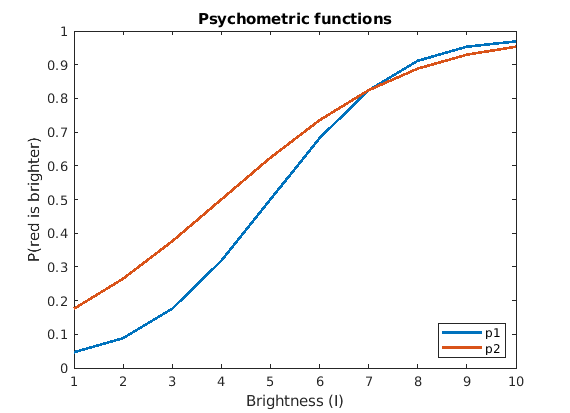
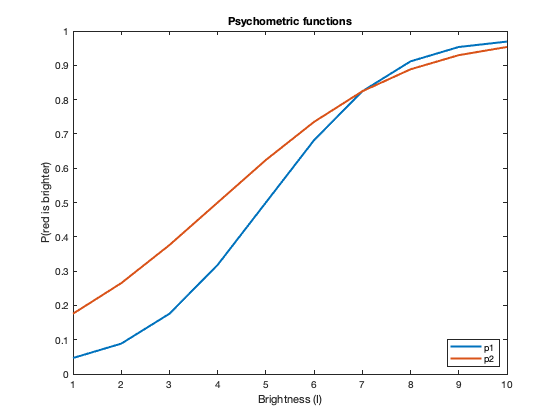
hw5
Minor changes

diff --git a/hw5_DAKE/html/Q3.html b/hw5_DAKE/html/Q3.html
@@ -6,8 +6,8 @@
    <!--
 This HTML was auto-generated from MATLAB code.
 To make changes, update the MATLAB code and republish this document.
-      --><title>Q3</title><meta name="generator" content="MATLAB 9.9"><link rel="schema.DC" href="http://purl.org/dc/elements/1.1/"><meta name="DC.date" content="2021-11-16"><meta name="DC.source" content="Q3.m"><style type="text/css">
-html,body,div,span,applet,object,iframe,h1,h2,h3,h4,h5,h6,p,blockquote,pre,a,abbr,acronym,address,big,cite,code,del,dfn,em,font,img,ins,kbd,q,s,samp,small,strike,strong,tt,var,b,u,i,center,dl,dt,dd,ol,ul,li,fieldset,form,label,legend,table,caption,tbody,tfoot,thead,tr,th,td{margin:0;padding:0;border:0;outline:0;font-size:100%;vertical-align:baseline;background:transparent}body{line-height:1}ol,ul{list-style:none}blockquote,q{quotes:none}blockquote:before,blockquote:after,q:before,q:after{content:'';content:none}:focus{outine:0}ins{text-decoration:none}del{text-decoration:line-through}table{border-collapse:collapse;border-spacing:0}
+      --><title>Q3</title><meta name="generator" content="MATLAB 9.6"><link rel="schema.DC" href="http://purl.org/dc/elements/1.1/"><meta name="DC.date" content="2021-11-19"><meta name="DC.source" content="Q3.m"><style type="text/css">
+html,body,div,span,applet,object,iframe,h1,h2,h3,h4,h5,h6,p,blockquote,pre,a,abbr,acronym,address,big,cite,code,del,dfn,em,font,img,ins,kbd,q,s,samp,small,strike,strong,sub,sup,tt,var,b,u,i,center,dl,dt,dd,ol,ul,li,fieldset,form,label,legend,table,caption,tbody,tfoot,thead,tr,th,td{margin:0;padding:0;border:0;outline:0;font-size:100%;vertical-align:baseline;background:transparent}body{line-height:1}ol,ul{list-style:none}blockquote,q{quotes:none}blockquote:before,blockquote:after,q:before,q:after{content:'';content:none}:focus{outine:0}ins{text-decoration:none}del{text-decoration:line-through}table{border-collapse:collapse;border-spacing:0}
 
 html { min-height:100%; margin-bottom:1px; }
 html body { height:100%; margin:0px; font-family:Arial, Helvetica, sans-serif; font-size:10px; color:#000; line-height:140%; background:#fff none; overflow-y:scroll; }
@@ -23,7 +23,7 @@ a:visited { color:#004aa0; text-decoration:none; }
 
 p { padding:0px; margin:0px 0px 20px; }
 img { padding:0px; margin:0px 0px 20px; border:none; }
-p img, pre img, tt img, li img, h1 img, h2 img { margin-bottom:0px; }
+p img, pre img, tt img, li img, h1 img, h2 img { margin-bottom:0px; } 
 
 ul { padding:0px; margin:0px 0px 20px 23px; list-style:square; }
 ul li { padding:0px; margin:0px 0px 7px 0px; }
@@ -52,7 +52,6 @@ span.comment { color:#228B22 }
 span.string { color:#A020F0 }
 span.untermstring { color:#B20000 }
 span.syscmd { color:#B28C00 }
-span.typesection { color:#A0522D }
 
 .footer { width:auto; padding:10px 0px; margin:25px 0px 0px; border-top:1px dotted #878787; font-size:0.8em; line-height:140%; font-style:italic; color:#878787; text-align:left; float:none; }
 .footer p { margin:0px; }
@@ -67,25 +66,102 @@ table td { padding:7px 5px; text-align:left; vertical-align:top; border:1px soli
 
 
 
-  </style></head><body><div class="content"><h2>Contents</h2><div><ul><li><a href="#2">a)</a></li></ul></div><pre class="codeinput">clear; close <span class="string">all</span>; clc;
+  </style></head><body><div class="content"><h2>Contents</h2><div><ul><li><a href="#2">a)</a></li><li><a href="#9">b)</a></li><li><a href="#10">c)</a></li><li><a href="#11">d)</a></li><li><a href="#12">Function</a></li></ul></div><pre class="codeinput">clear; close <span class="string">all</span>; clc;
 </pre><h2 id="2">a)</h2><pre class="codeinput">I = 1:10;
 lambda = 0.05;
 mu = [5, 4];
 sigma = [2, 3];
-gauss_cdf1 = normcdf(I, mu(1), sigma(1));
-gauss_cdf2 = normcdf(I, mu(2), sigma(2));
-p1 = lambda/2 + (1-lambda) * gauss_cdf1;
-p2 = lambda/2 + (1-lambda) * gauss_cdf2;
 
 fig1 = figure();
-plot(I, p1, <span class="string">'DisplayName'</span>, <span class="string">'p1'</span>, <span class="string">'LineWidth'</span>, 2)
-hold <span class="string">on</span>;
-plot(I, p2, <span class="string">'DisplayName'</span>, <span class="string">'p2'</span>, <span class="string">'LineWidth'</span>, 2)
+<span class="keyword">for</span> i = 1:length(mu)
+    gauss_cdf = normcdf(I, mu(i), sigma(i));
+    p = lambda/2 + (1-lambda) * gauss_cdf;
+    plot(I, p, <span class="string">'DisplayName'</span>, sprintf(<span class="string">'p%d'</span>,i), <span class="string">'LineWidth'</span>, 2)
+    hold <span class="string">on</span>;
+<span class="keyword">end</span>
 xlabel(<span class="string">'Brightness (I)'</span>)
 ylabel(<span class="string">'P(red is brighter)'</span>)
 title(<span class="string">'Psychometric functions'</span>)
 legend(<span class="string">'Location'</span>, <span class="string">'southeast'</span>)
-</pre><img vspace="5" hspace="5" src="Q3_01.png" alt=""> <p class="footer"><br><a href="https://www.mathworks.com/products/matlab/">Published with MATLAB&reg; R2020b</a><br></p></div><!--
+</pre><img vspace="5" hspace="5" src="Q3_01.png" alt=""> <p>The two curves are sigmoidal or psychometric functions and saturate to 1 as the intensity is increased. The two curves differ in their slopes. Curve p1 has a steeper slope compared to the curve p2. This implies that the probability of the subject saying that "The red spot is brighter" increases rapidly with small changes in brightness in case of p1 but is rather slow in case of curve p2. We can also see that the curve p1 is in general above the curve p1 indicating that for the same intensity values, the probability of the subject saying that "The red spot is brighter" is higher in the case of p2.</p><p>Changing the mean of the psychometric function shifts the curve to the right along the brightness axis as increasing the mean results in increasing the threshold for deciding the response. This can be seen clearly in the figure below:</p><pre class="codeinput">I = 1:10;
+lambda = 0.05;
+mu = [1, 3, 6];
+sigma = [2, 2, 2];
+
+fig2 = figure();
+<span class="keyword">for</span> i = 1:length(mu)
+    gauss_cdf = normcdf(I, mu(i), sigma(i));
+    p = lambda/2 + (1-lambda) * gauss_cdf;
+    plot(I, p, <span class="string">'DisplayName'</span>, sprintf(<span class="string">'Mean = %d'</span>,mu(i)), <span class="string">'LineWidth'</span>, 2)
+    hold <span class="string">on</span>;
+<span class="keyword">end</span>
+xlabel(<span class="string">'Brightness (I)'</span>)
+ylabel(<span class="string">'P(red is brighter)'</span>)
+title(<span class="string">'Psychometric functions (varying mean)'</span>)
+legend(<span class="string">'Location'</span>, <span class="string">'southeast'</span>)
+</pre><img vspace="5" hspace="5" src="Q3_02.png" alt=""> <p>Changing the standard deviation of the psychometric functions does not affect the threshold but affects the slope of the curve. Hence increasing the standard deviation would flatten the curve. Specifically, it will decrease the probability of calling "Red is brighter" at higher intensity levels but increase the probability of calling "Red is brighter" at lower intensity levels. This can be seen clearly in the figure below:</p><pre class="codeinput">I = 1:10;
+lambda = 0.05;
+mu = [3, 3, 3];
+sigma = [1, 2, 4];
+
+fig3 = figure();
+<span class="keyword">for</span> i = 1:length(mu)
+    gauss_cdf = normcdf(I, mu(i), sigma(i));
+    p = lambda/2 + (1-lambda) * gauss_cdf;
+    plot(I, p, <span class="string">'DisplayName'</span>, sprintf(<span class="string">'Stdev = %d'</span>,sigma(i)), <span class="string">'LineWidth'</span>, 2)
+    hold <span class="string">on</span>;
+<span class="keyword">end</span>
+xlabel(<span class="string">'Brightness (I)'</span>)
+ylabel(<span class="string">'P(red is brighter)'</span>)
+title(<span class="string">'Psychometric functions (varying standard deviation)'</span>)
+legend(<span class="string">'Location'</span>, <span class="string">'southeast'</span>)
+</pre><img vspace="5" hspace="5" src="Q3_03.png" alt=""> <p>The range of p(I) is [0:1]. This range is appropriate because p(I) is a probability of the subject making a decision. The probability makes sense only in the range 0 to 1 and thus justifies the range of p(I).</p><h2 id="9">b)</h2><p>The function simpsych is defined at the end of the file.</p><h2 id="10">c)</h2><pre class="codeinput">T = ones(1, 7) * 100;
+I = 1:7;
+lambda = 0.05;
+mu = 4;
+sigma = 1;
+B = simpsych(lambda, mu, sigma, I, T);
+gauss_cdf = normcdf(I, mu, sigma);
+p = lambda/2 + (1 - lambda) * gauss_cdf;
+
+fig4 = figure();
+plot(I, p, <span class="string">'DisplayName'</span>, <span class="string">'p(I)'</span>, <span class="string">'LineWidth'</span>, 2)
+hold <span class="string">on</span>;
+plot(I, B./T, <span class="string">'r*-'</span>, <span class="string">'DisplayName'</span>, <span class="string">'B./T'</span>, <span class="string">'LineWidth'</span>, 2)
+xlabel(<span class="string">'Brightness (I)'</span>)
+ylabel(<span class="string">'P(red is brighter)'</span>)
+title(sprintf(<span class="string">'Simulating simpsych (trials = %d)'</span>, 100))
+legend(<span class="string">'Location'</span>, <span class="string">'southeast'</span>)
+</pre><img vspace="5" hspace="5" src="Q3_04.png" alt=""> <h2 id="11">d)</h2><pre class="codeinput">T = ones(1, 7) * 10;
+I = 1:7;
+lambda = 0.05;
+mu = 4;
+sigma = 1;
+B = simpsych(lambda, mu, sigma, I, T);
+gauss_cdf = normcdf(I, mu, sigma);
+p = lambda/2 + (1 - lambda) * gauss_cdf;
+
+fig5 = figure();
+plot(I, p, <span class="string">'DisplayName'</span>, <span class="string">'p(I)'</span>, <span class="string">'LineWidth'</span>, 2)
+hold <span class="string">on</span>;
+plot(I, B./T, <span class="string">'r*-'</span>, <span class="string">'DisplayName'</span>, <span class="string">'B./T'</span>, <span class="string">'LineWidth'</span>, 2)
+xlabel(<span class="string">'Brightness (I)'</span>)
+ylabel(<span class="string">'P(red is brighter)'</span>)
+title(sprintf(<span class="string">'Simulating simpsych (trials = %d)'</span>, 10))
+legend(<span class="string">'Location'</span>, <span class="string">'southeast'</span>)
+</pre><h2 id="12">Function</h2><pre class="codeinput"><span class="keyword">function</span> B = simpsych(lambda, mu, sigma, I, T)
+    loop_size = length(I);
+    B = zeros(1, loop_size);
+    gauss_cdf = normcdf(I, mu, sigma);
+    p = lambda/2 + (1 - lambda) * gauss_cdf;
+    <span class="keyword">for</span> k = 1:loop_size
+        <span class="comment">%yesses = 0;</span>
+        trial_rand = rand(1, T(k));
+        yesses = trial_rand &lt; p(k);
+        B(:, k) = sum(yesses);
+    <span class="keyword">end</span>
+<span class="keyword">end</span>
+</pre><p class="footer"><br><a href="https://www.mathworks.com/products/matlab/">Published with MATLAB&reg; R2019a</a><br></p></div><!--
 ##### SOURCE BEGIN #####
 clear; close all; clc;
 
@@ -94,19 +170,139 @@ I = 1:10;
 lambda = 0.05;
 mu = [5, 4];
 sigma = [2, 3];
-gauss_cdf1 = normcdf(I, mu(1), sigma(1));
-gauss_cdf2 = normcdf(I, mu(2), sigma(2));
-p1 = lambda/2 + (1-lambda) * gauss_cdf1;
-p2 = lambda/2 + (1-lambda) * gauss_cdf2;
 
 fig1 = figure();
-plot(I, p1, 'DisplayName', 'p1', 'LineWidth', 2)
-hold on;
-plot(I, p2, 'DisplayName', 'p2', 'LineWidth', 2)
+for i = 1:length(mu)
+    gauss_cdf = normcdf(I, mu(i), sigma(i));
+    p = lambda/2 + (1-lambda) * gauss_cdf;
+    plot(I, p, 'DisplayName', sprintf('p%d',i), 'LineWidth', 2)
+    hold on;
+end
 xlabel('Brightness (I)')
 ylabel('P(red is brighter)')
 title('Psychometric functions')
 legend('Location', 'southeast')
+
+%%
+% The two curves are sigmoidal or psychometric functions and saturate to 1
+% as the intensity is increased. The two curves differ in their slopes.
+% Curve p1 has a steeper slope compared to the curve p2. This implies that 
+% the probability of the subject saying that "The red spot is brighter"
+% increases rapidly with small changes in brightness in case of p1 but is
+% rather slow in case of curve p2. We can also see that the curve p1 is in
+% general above the curve p1 indicating that for the same intensity values,
+% the probability of the subject saying that "The red spot is brighter" is
+% higher in the case of p2.
+
+%%
+% Changing the mean of the psychometric function shifts the curve to the right
+% along the brightness axis as increasing the mean results in increasing
+% the threshold for deciding the response. This can be seen clearly in the
+% figure below:
+%%
+I = 1:10;
+lambda = 0.05;
+mu = [1, 3, 6];
+sigma = [2, 2, 2];
+
+fig2 = figure();
+for i = 1:length(mu)
+    gauss_cdf = normcdf(I, mu(i), sigma(i));
+    p = lambda/2 + (1-lambda) * gauss_cdf;
+    plot(I, p, 'DisplayName', sprintf('Mean = %d',mu(i)), 'LineWidth', 2)
+    hold on;
+end
+xlabel('Brightness (I)')
+ylabel('P(red is brighter)')
+title('Psychometric functions (varying mean)')
+legend('Location', 'southeast')
+
+%%
+% Changing the standard deviation of the psychometric functions does not
+% affect the threshold but affects the slope of the curve. Hence increasing
+% the standard deviation would flatten the curve. Specifically, it will
+% decrease the probability of calling "Red is brighter" at higher
+% intensity levels but increase the probability of calling "Red is
+% brighter" at lower intensity levels. This can be seen clearly in the
+% figure below:
+%%
+I = 1:10;
+lambda = 0.05;
+mu = [3, 3, 3];
+sigma = [1, 2, 4];
+
+fig3 = figure();
+for i = 1:length(mu)
+    gauss_cdf = normcdf(I, mu(i), sigma(i));
+    p = lambda/2 + (1-lambda) * gauss_cdf;
+    plot(I, p, 'DisplayName', sprintf('Stdev = %d',sigma(i)), 'LineWidth', 2)
+    hold on;
+end
+xlabel('Brightness (I)')
+ylabel('P(red is brighter)')
+title('Psychometric functions (varying standard deviation)')
+legend('Location', 'southeast')
+
+%%
+% The range of p(I) is [0:1]. This range is appropriate because p(I) is a
+% probability of the subject making a decision. The probability makes sense
+% only in the range 0 to 1 and thus justifies the range of p(I).
+
+%% b)
+% The function simpsych is defined at the end of the file.
+
+%% c)
+T = ones(1, 7) * 100;
+I = 1:7;
+lambda = 0.05;
+mu = 4;
+sigma = 1;
+B = simpsych(lambda, mu, sigma, I, T);
+gauss_cdf = normcdf(I, mu, sigma);
+p = lambda/2 + (1 - lambda) * gauss_cdf;
+
+fig4 = figure();
+plot(I, p, 'DisplayName', 'p(I)', 'LineWidth', 2)
+hold on;
+plot(I, B./T, 'r*-', 'DisplayName', 'B./T', 'LineWidth', 2)
+xlabel('Brightness (I)')
+ylabel('P(red is brighter)')
+title(sprintf('Simulating simpsych (trials = %d)', 100))
+legend('Location', 'southeast')
+
+%% d)
+T = ones(1, 7) * 10;
+I = 1:7;
+lambda = 0.05;
+mu = 4;
+sigma = 1;
+B = simpsych(lambda, mu, sigma, I, T);
+gauss_cdf = normcdf(I, mu, sigma);
+p = lambda/2 + (1 - lambda) * gauss_cdf;
+
+fig5 = figure();
+plot(I, p, 'DisplayName', 'p(I)', 'LineWidth', 2)
+hold on;
+plot(I, B./T, 'r*-', 'DisplayName', 'B./T', 'LineWidth', 2)
+xlabel('Brightness (I)')
+ylabel('P(red is brighter)')
+title(sprintf('Simulating simpsych (trials = %d)', 10))
+legend('Location', 'southeast')
+
+%% Function
+function B = simpsych(lambda, mu, sigma, I, T)
+    loop_size = length(I);
+    B = zeros(1, loop_size);
+    gauss_cdf = normcdf(I, mu, sigma);
+    p = lambda/2 + (1 - lambda) * gauss_cdf;
+    for k = 1:loop_size
+        %yesses = 0;
+        trial_rand = rand(1, T(k));
+        yesses = trial_rand < p(k);
+        B(:, k) = sum(yesses);
+    end
+end
+
 
 ##### SOURCE END #####
 --></body></html>

diff --git a/hw5_DAKE/Q3.m b/hw5_DAKE/Q3.m
@@ -60,6 +60,7 @@ legend('Location', 'southeast')
 % intensity levels but increase the probability of calling "Red is
 % brighter" at lower intensity levels. This can be seen clearly in the
 % figure below:
+
 %%
 I = 1:10;
 lambda = 0.05;
@@ -99,7 +100,7 @@ p = lambda/2 + (1 - lambda) * gauss_cdf;
 fig4 = figure();
 plot(I, p, 'DisplayName', 'p(I)', 'LineWidth', 2)
 hold on;
-plot(I, B./T, 'r*-', 'DisplayName', 'B./T', 'LineWidth', 2)
+plot(I, B./T, 'r*', 'DisplayName', 'B./T', 'LineWidth', 2)
 xlabel('Brightness (I)')
 ylabel('P(red is brighter)')
 title(sprintf('Simulating simpsych (trials = %d)', 100))
@@ -118,11 +119,35 @@ p = lambda/2 + (1 - lambda) * gauss_cdf;
 fig5 = figure();
 plot(I, p, 'DisplayName', 'p(I)', 'LineWidth', 2)
 hold on;
-plot(I, B./T, 'r*-', 'DisplayName', 'B./T', 'LineWidth', 2)
+plot(I, B./T, 'r*', 'DisplayName', 'B./T', 'LineWidth', 2)
 xlabel('Brightness (I)')
 ylabel('P(red is brighter)')
 title(sprintf('Simulating simpsych (trials = %d)', 10))
 legend('Location', 'southeast')
+
+%%
+% The second plot also samples from the same psychometric distribution but
+% since the number of trials are less, there is more noise in sampling. As
+% a result, the data points from the sample do not fit the psychometric
+% curve as well in the second curve as they do in the first curve.
+
+%% d)
+mu_steps = 1:0.1:7;
+T10 = ones(1, 7) * 10;
+T100 = ones(1, 7) * 100;
+I = 1:7;
+lambda = 0.05;
+sigma = 1;
+B10_likelihood = zeros(length(mu_steps), 7);
+B100_likelihood = zeros(length(mu_steps), 7);
+
+for i = 1:length(mu_steps)
+    mu = mu_steps(i);
+    B10_likelihood(i, :) = simpsych(lambda, mu, sigma, I, T10);
+    B100_likelihood(i, :) = simpsych(lambda, mu, sigma, I, T100);
+end
+
+%% e)
 
 %% Function
 function B = simpsych(lambda, mu, sigma, I, T)

diff --git a/hw5_DAKE/Q4.m b/hw5_DAKE/Q4.m
@@ -25,6 +25,8 @@ ylabel('Frequency in sample')
 title('Histogram of firing rates for different stimulus types')
 
 %% b)
+d_prime = abs(mean_10_coher - mean_no_coher)/sqrt(var_no_coher);
+fprintf("The d' for the task and the pair of stimuli is %d\n", d_prime)
 
 %% c)
 thresholds = 0:15;
